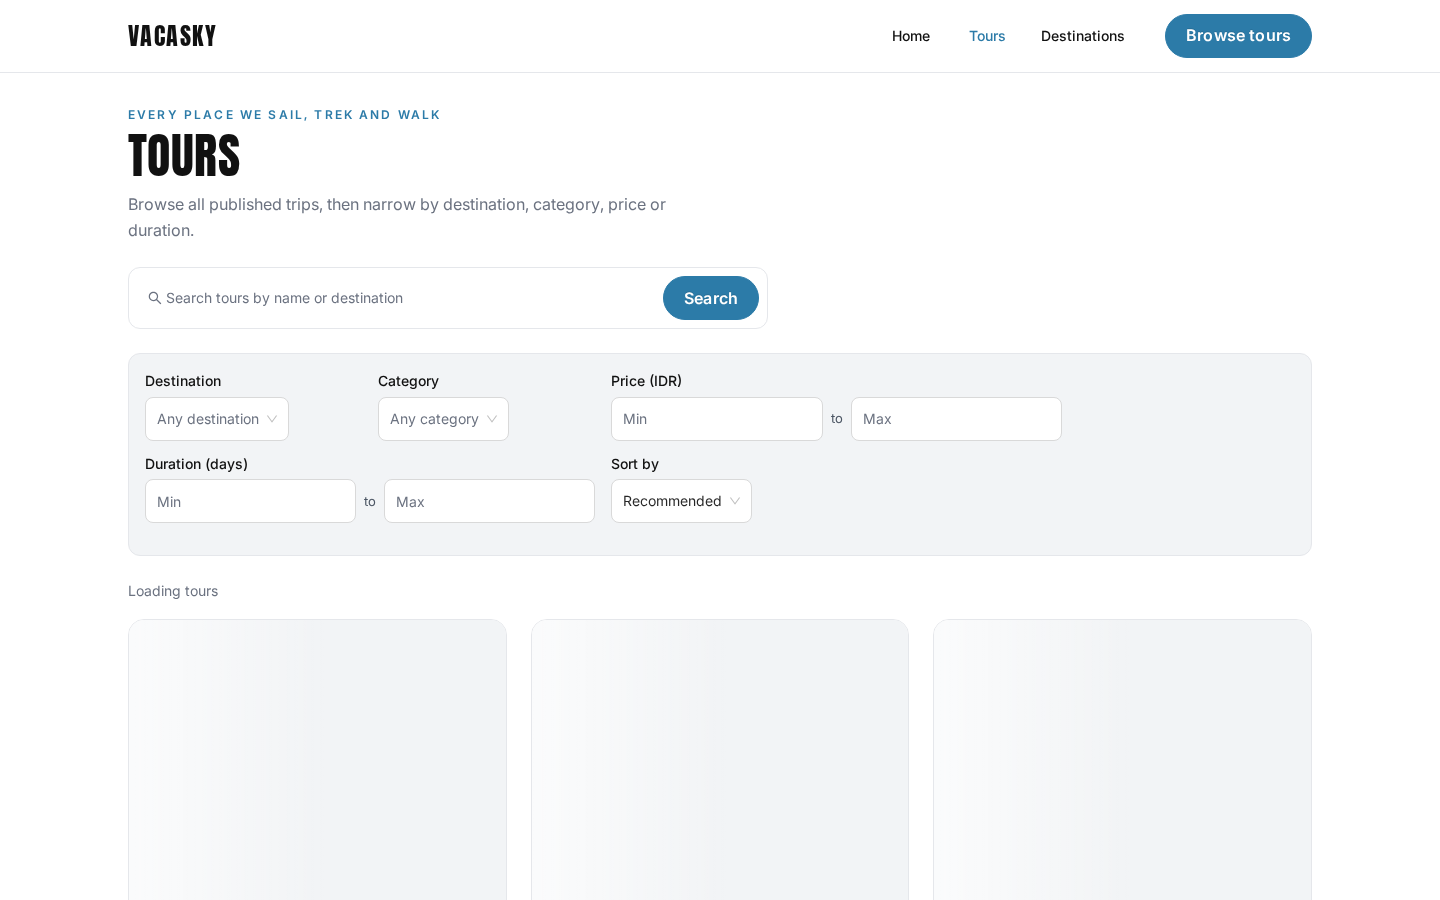
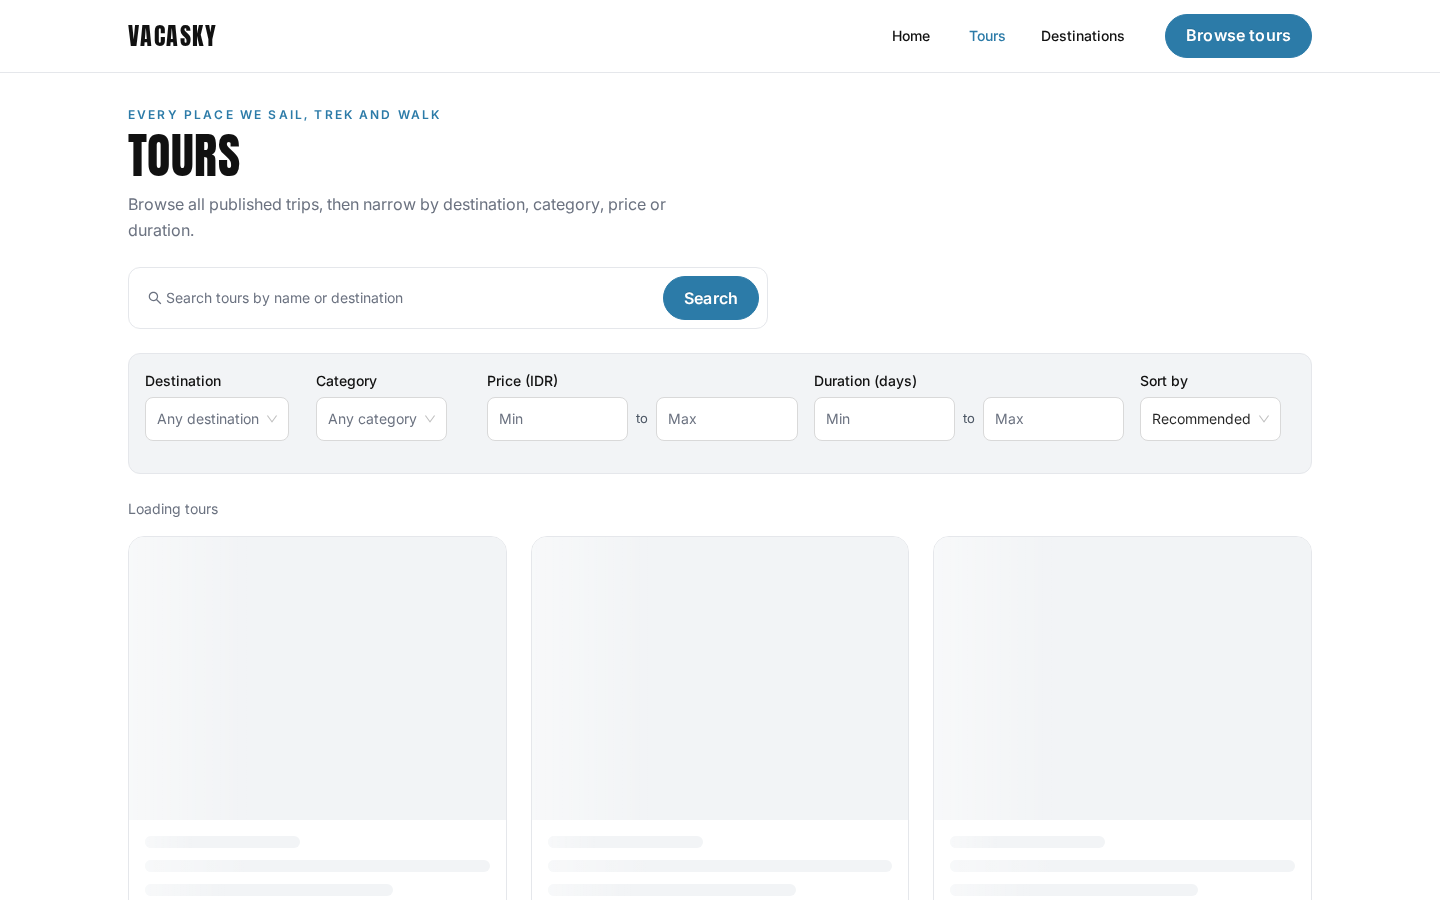
docs(vacasky-svc/FEAT-001): pin the UI-review tested commit and refresh evidence

diff --git a/docs/FEAT-001/fe-test-results.md b/docs/FEAT-001/fe-test-results.md
@@ -1,16 +1,16 @@
 ---
 feature_code: FEAT-001
 service: vacasky-svc
-version: 2
+version: 3
 status: complete
 spec_version: 1
 testcase_version: 1
 architecture_version: 1
 contract_version: 3
-tested_commit: e1adbd137bd994bc1c7f2de1abfa0ca4864c74c5
+tested_commit: 33a5a5c45b97fc70db48a0e95e6ebe502850555f
 pr_url: https://github.com/william22913/vacasky-svc-ui/pull/1
 mock_mode: mock-server.mjs (port 4010), contract version 3
-last_updated: 2026-11-09
+last_updated: 2026-11-10
 ---
 
 # FEAT-001 — Frontend Test Results
@@ -20,16 +20,16 @@ Tour not found, Offline page).
 
 Repo: `william22913/vacasky-svc-ui` — branch
 `feat/FEAT-001-dev-home-listing-detail`, continuing PR #1. The run below was
-made against commit `e1adbd137bd994bc1c7f2de1abfa0ca4864c74c5`, the test
-commit that closes the round-3 review; this results document is the
-metadata commit immediately after it and changes no application code.
+made against commit `33a5a5c45b97fc70db48a0e95e6ebe502850555f`, the commit
+that closes the UI review; this results document is the metadata commit
+immediately after it and changes no application code.
 
 Test cases: `docs/FEAT-001/testcase.md` version 1 (docs PR #29). Spec:
 `docs/FEAT-001/spec.md` version 1 (docs PR #28). UI map:
 `docs/FEAT-001/UIMap.md` version 1. API contract **version 3**, supplied
 with the task and used unchanged.
 
-Everything below was executed on 2026-11-09 against that commit.
+Everything below was executed on 2026-11-10 against that commit.
 The backend service is a separate repo and is out of scope for this
 document.
 
@@ -40,12 +40,30 @@ document.
 | Lint | `npm run lint` | PASS — 0 errors, 0 warnings (`--max-warnings 0`) |
 | Unit/component tests | `npm test` | PASS — 7 files, 31 tests |
 | Production build | `npm run build` | PASS — Vite build; PWA precache 24 entries |
-| End-to-end (desktop 1440×900 + mobile 360×800) | `npx playwright test` | PASS — 80 passed (40 per project), 0 skipped, 2.7 min |
+| End-to-end (desktop 1440×900 + mobile 360×800) | `npx playwright test` | PASS — 80 passed (40 per project), 0 skipped, 2.5 min |
 | Live Docker/nginx preview | `verify_stack` with `docker-compose.verify.yml` | PASS — stack healthy; Newman 5 requests, 7 assertions, 0 failures |
 
 Every test runs on both the desktop and mobile projects; there are no
 conditional skips. The responsive filter test asserts the inline filter bar
 on desktop and the bottom drawer on mobile in the same test.
+
+### UI review changes
+
+Two items from the UI review were fixed and are now covered by assertions:
+
+1. **Listing — invalid range.** The range error no longer renders inside the
+   Price or Duration field. It moves to its own full-width row under the
+   grid (`.filter-bar__errors`), and on desktop the five controls share one
+   row (`1fr 1fr 2fr 2fr 1fr`). `listing.spec.js › an inverted price range is
+   reported and not requested` records the top offset of every field before
+   and after the error appears and requires them to be identical, so a
+   message can never shift a neighbouring control again.
+2. **Tour not found — page frame.** The shell is now a full-height flex
+   column with `main` growing to fill it, so the Tour not found state ends at
+   the bottom of the viewport like the generic Page not found and the offline
+   page instead of leaving white space under the footer.
+   `detail.spec.js › a missing tour shows the tour not found page` asserts the
+   footer's bottom edge reaches the viewport bottom.
 
 ## Test environment
 
@@ -223,7 +241,8 @@ All screenshots were produced by the Playwright suite in this run
 - Listing: `listing-desktop.png`, `listing-mobile.png`,
   `listing-loading-desktop.png`, `listing-loading-mobile.png`,
   `listing-empty-desktop.png`, `listing-empty-mobile.png`,
-  `listing-filters-mobile.png`
+  `listing-filters-mobile.png`, `listing-invalid-range-desktop.png`,
+  `listing-invalid-range-mobile.png`
 - Detail: `detail-desktop.png`, `detail-mobile.png`,
   `detail-loading-desktop.png`, `detail-loading-mobile.png`,
   `not-found-desktop.png`, `not-found-mobile.png`
